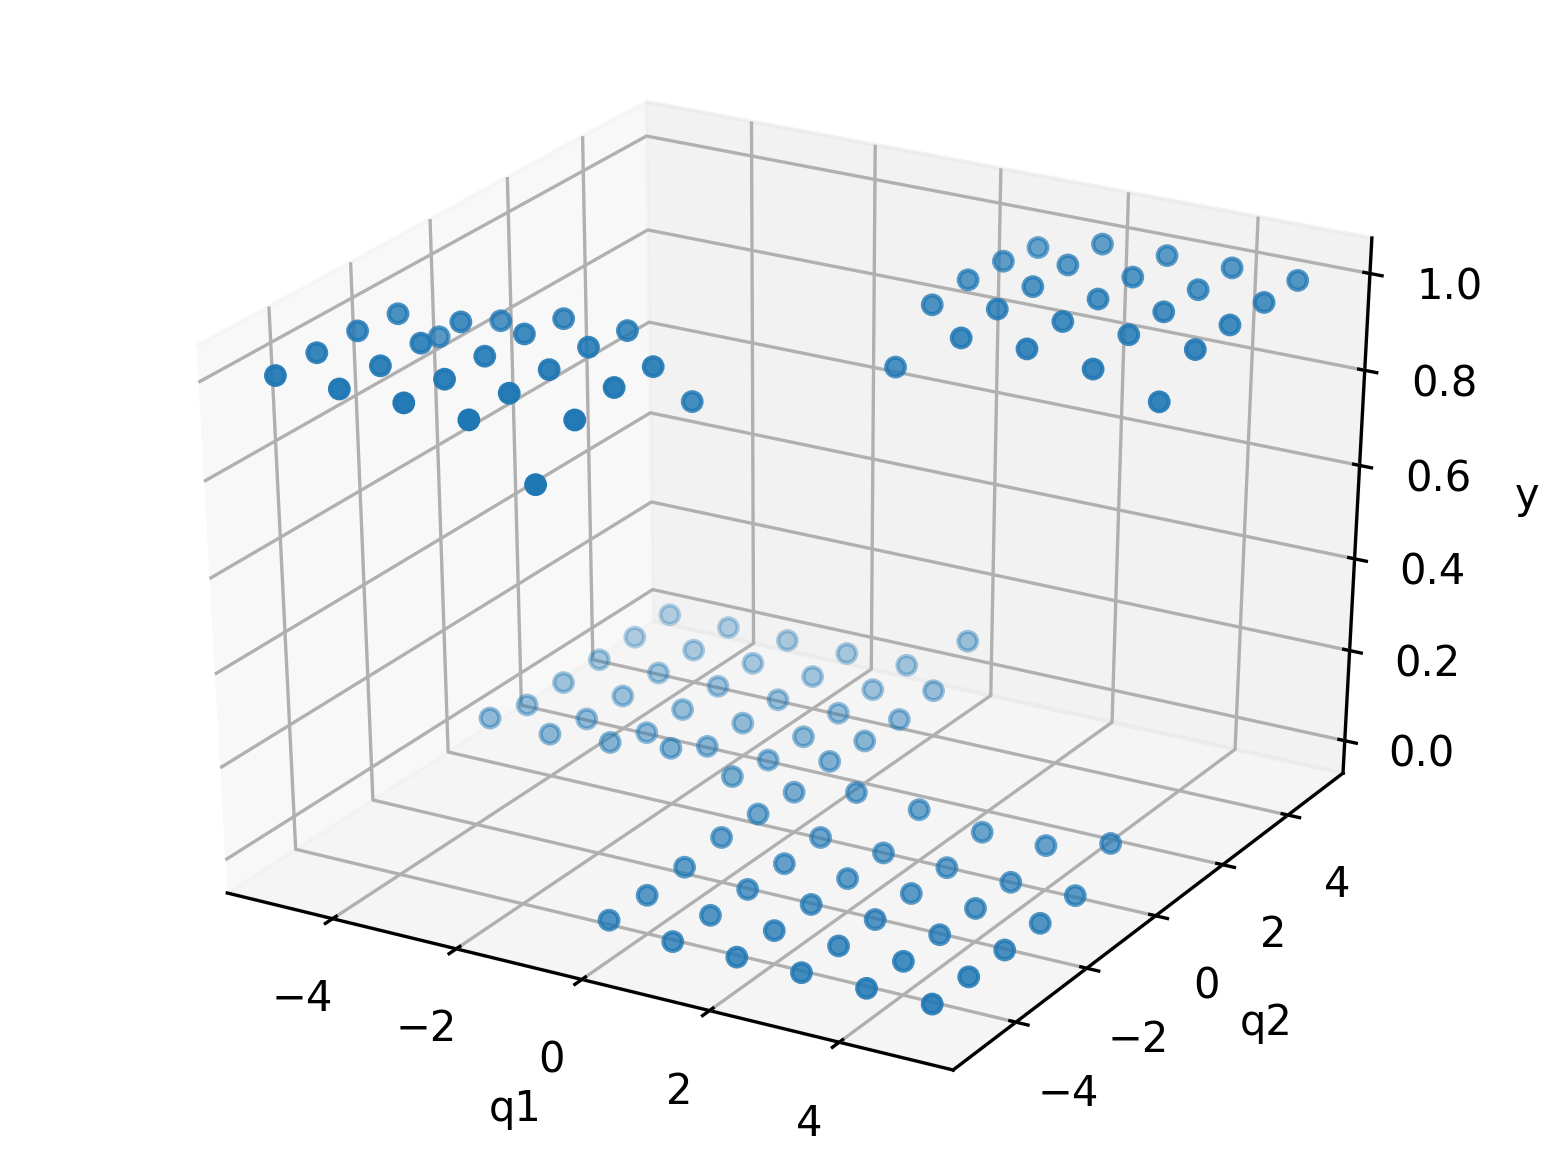
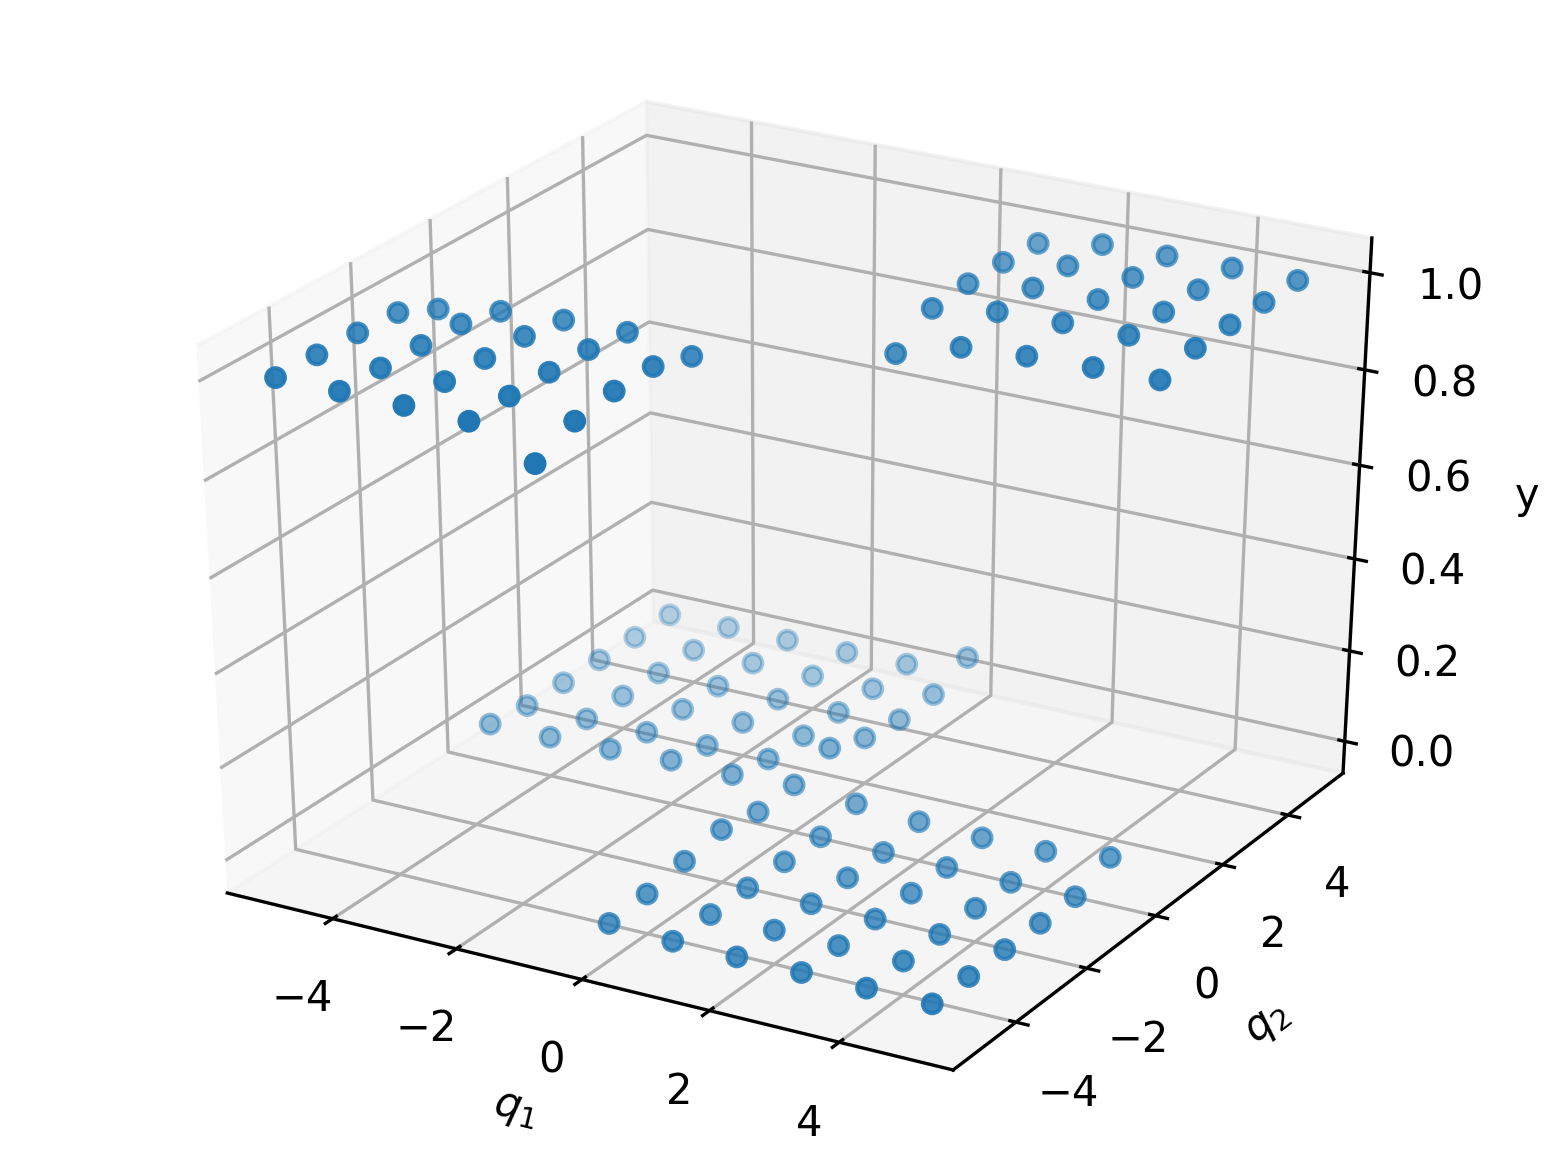
Initial commit

diff --git a/Problem_set_1/exercise1_pytorch_solution.py b/Problem_set_1/exercise1_pytorch_solution.py
@@ -100,8 +100,8 @@ x, y_hat = x.detach().numpy(), y_hat.detach().numpy()
 fig = plt.figure()
 ax = fig.add_subplot(111, projection='3d')
 ax.scatter([q[0] for q in x], [q[1] for q in x], [f for f in y_hat])
-ax.set_xlabel('q1')
-ax.set_ylabel('q2')
+ax.set_xlabel('$q_1$')
+ax.set_ylabel('$q_2$')
 ax.set_zlabel('y')
 plt.savefig("./example_1.1_prediction.pdf", dpi=300, bbox_inches='tight')
 plt.close()
@@ -113,8 +113,8 @@ plt.close()
 fig = plt.figure()
 ax = fig.add_subplot(111, projection='3d')
 ax.scatter([q[0] for q in x], [q[1] for q in x], [f.round() for f in y_hat])
-ax.set_xlabel('q1')
-ax.set_ylabel('q2')
+ax.set_xlabel('$q_1$')
+ax.set_ylabel('$q_2$')
 ax.set_zlabel('y')
 plt.savefig("./example_1.1_prediction_rounded.pdf", dpi=300, bbox_inches='tight')
 plt.close()
@@ -193,8 +193,8 @@ ax = fig.add_subplot(111)
 ax.scatter([x[i][0] for i in range(len(x)) if y_hat[i] == 0], [x[i][1] for i in range(len(x)) if y_hat[i] == 0], c='r', marker='o', label='attractive')
 ax.scatter([x[i][0] for i in range(len(x)) if y_hat[i] == 1], [x[i][1] for i in range(len(x)) if y_hat[i] == 1], c='g', marker='d', label='neutral')
 ax.scatter([x[i][0] for i in range(len(x)) if y_hat[i] == 2], [x[i][1] for i in range(len(x)) if y_hat[i] == 2], c='b', marker='^', label='repulsive')
-ax.set_xlabel('q1')
-ax.set_ylabel('q2')
+ax.set_xlabel('$q_1$')
+ax.set_ylabel('$q_2$')
 ax.legend(loc='center left', bbox_to_anchor=(1, 0.5))
 plt.title("Result of NN classification")
 plt.savefig("./example_1.1e_prediction.pdf", dpi=300, bbox_inches='tight')

diff --git a/Problem_set_1/exercise1_keras_solution.py b/Problem_set_1/exercise1_keras_solution.py
@@ -88,8 +88,8 @@ y_hat = my_nn.predict(np.array(x))
 fig = plt.figure()
 ax = fig.add_subplot(111, projection='3d')
 ax.scatter([q[0] for q in x], [q[1] for q in x], [f for f in y_hat])
-ax.set_xlabel('q1')
-ax.set_ylabel('q2')
+ax.set_xlabel('$q_1$')
+ax.set_ylabel('$q_2$')
 ax.set_zlabel('y')
 plt.savefig("./example_1.1_prediction.pdf", dpi=300, bbox_inches='tight')
 plt.close()
@@ -101,8 +101,8 @@ plt.close()
 fig = plt.figure()
 ax = fig.add_subplot(111, projection='3d')
 ax.scatter([q[0] for q in x], [q[1] for q in x], [np.round(f) for f in y_hat])
-ax.set_xlabel('q1')
-ax.set_ylabel('q2')
+ax.set_xlabel('$q_1$')
+ax.set_ylabel('$q_2$')
 ax.set_zlabel('y')
 plt.savefig("./example_1.1_prediction_rounded.pdf", dpi=300, bbox_inches='tight')
 plt.close()

diff --git a/Problem_set_4/exercise2_solution.py b/Problem_set_4/exercise2_solution.py
@@ -31,8 +31,8 @@ contour_plot = plt.contourf(eeta, ttau, v, 30)
 plt.colorbar(contour_plot)
 
 plt.title(r'Contour Plot in $\eta,\tau$ plane')
-plt.xlabel('s')
-plt.ylabel('t')
+plt.xlabel(r'$\eta$')
+plt.ylabel(r'$\tau$')
 plt.show()
 
 
@@ -155,6 +155,6 @@ plt.colorbar(contour_plot)
 plt.scatter(winner[2], winner[3], c='r', marker='o')
 
 plt.title(r'Contour Plot in $\eta,\tau$ plane')
-plt.xlabel('s')
-plt.ylabel('t')
+plt.xlabel(r'$\eta$')
+plt.ylabel(r'$\tau$')
 plt.show()

diff --git a/Problem_set_1/exercise1_pytorch.py b/Problem_set_1/exercise1_pytorch.py
@@ -92,8 +92,8 @@ x, y_hat = x.detach().numpy(), y_hat.detach().numpy()
 fig = plt.figure()
 ax = fig.add_subplot(111, projection='3d')
 ax.scatter([q[0] for q in x], [q[1] for q in x], [f for f in y_hat])
-ax.set_xlabel('q1')
-ax.set_ylabel('q2')
+ax.set_xlabel('$q_1$')
+ax.set_ylabel('$q_2$')
 ax.set_zlabel('y')
 plt.savefig("./example_1.1_prediction.pdf", dpi=300, bbox_inches='tight')
 plt.close()

diff --git a/Problem_set_1/exercise1_keras.py b/Problem_set_1/exercise1_keras.py
@@ -87,8 +87,8 @@ y_hat = my_nn.predict(np.array(x))
 fig = plt.figure()
 ax = fig.add_subplot(111, projection='3d')
 ax.scatter([q[0] for q in x], [q[1] for q in x], [f for f in y_hat])
-ax.set_xlabel('q1')
-ax.set_ylabel('q2')
+ax.set_xlabel('$q_1$')
+ax.set_ylabel('$q_2$')
 ax.set_zlabel('y')
 plt.savefig("./example_1.1_prediction.pdf", dpi=300, bbox_inches='tight')
 plt.close()

diff --git a/README.md b/README.md
@@ -24,19 +24,19 @@ NN predicting this is a spiral galaxy:
 (Image source: [https://www.sdss.org](https://www.sdss.org))
 
 ## Week 7
-In this [exercise](./Problem_set_3/problem_set_3.pdf), we demonstrate how to code an environment that can be connected via the OpenAI gym to [ChainerRL](https://github.com/chainer/chainerrl). We illustrate how the the A3C agent finds good energy configurations for the 1D Ising model by flipping spins at any of the lattice sites.The repository for the exercise with templates and solutions is available [here](./Problem_set_3/).
+In this [exercise](./Problem_set_3/problem_set_3.pdf), we demonstrate how to code an environment that can be connected via the OpenAI gym to [ChainerRL](https://github.com/chainer/chainerrl). We illustrate how the the A3C agent finds good energy configurations for the 1D Ising model by flipping spins at any of the lattice sites. The repository for the exercise with templates and solutions is available [here](./Problem_set_3/).
 
 ```
 I found an optimal configuration!
-↑ ↑ ↑ ↑ ↑ ↑ ↑ ↑ ↑ ↑ ↑ ↑ ↑ ↑ ↑ 
+↑ ↑ ↑ ↑ ↑ ↑ ↑ ↑ ↑ ↑ ↑ ↑ ↑ ↑ ↑ ↑ ↑
 I started from
-↑ ↑ ↓ ↓ ↑ ↑ ↑ ↑ ↑ ↓ ↓ ↑ ↓ ↑ ↑ 
+↑ ↑ ↓ ↓ ↑ ↑ ↑ ↑ ↑ ↓ ↓ ↑ ↓ ↑ ↑ ↓ ↑
 and took the actions
-[10, 2, 3, 9, 12]
+[10, 2, 3, 9, 12, 15]
 ``` 
 
 ## Week 8
-In this [exercise](./Problem_set_4/problem_set_4.pdf), we illustrate different unsupervised clustering algorithms (k-means, mean shift, DBSCAN, Birch) that were discussed in class using [scikit learn](https://scikit-learn.org/stable/). The repository for the exercise with templates and solutions is available [here](./Problem_set_4/).
+In this [exercise](./Problem_set_4/problem_set_4.pdf), we illustrate different unsupervised clustering algorithms (k-means, mean shift, DBSCAN, Birch) that were discussed in class using [scikit learn](https://scikit-learn.org/stable/).
 
 <p align="center">
 <img src="./Problem_set_4/KMeans.png" width="400px"/>&nbsp;&nbsp;&nbsp;<img src="./Problem_set_4/Birch.png" width="400px"/>
@@ -48,3 +48,4 @@ We furthermore use genetic algorithms to minimize a superpotential of an N=1 SUS
 <img src="./Problem_set_4/Minimum_kahler.png" width="400px"/>&nbsp;&nbsp;&nbsp;<img src="./Problem_set_4/Minimum_axions.png" width="400px"/>
 </p>
 
+ The repository for the exercise with templates and solutions is available [here](./Problem_set_4/).
